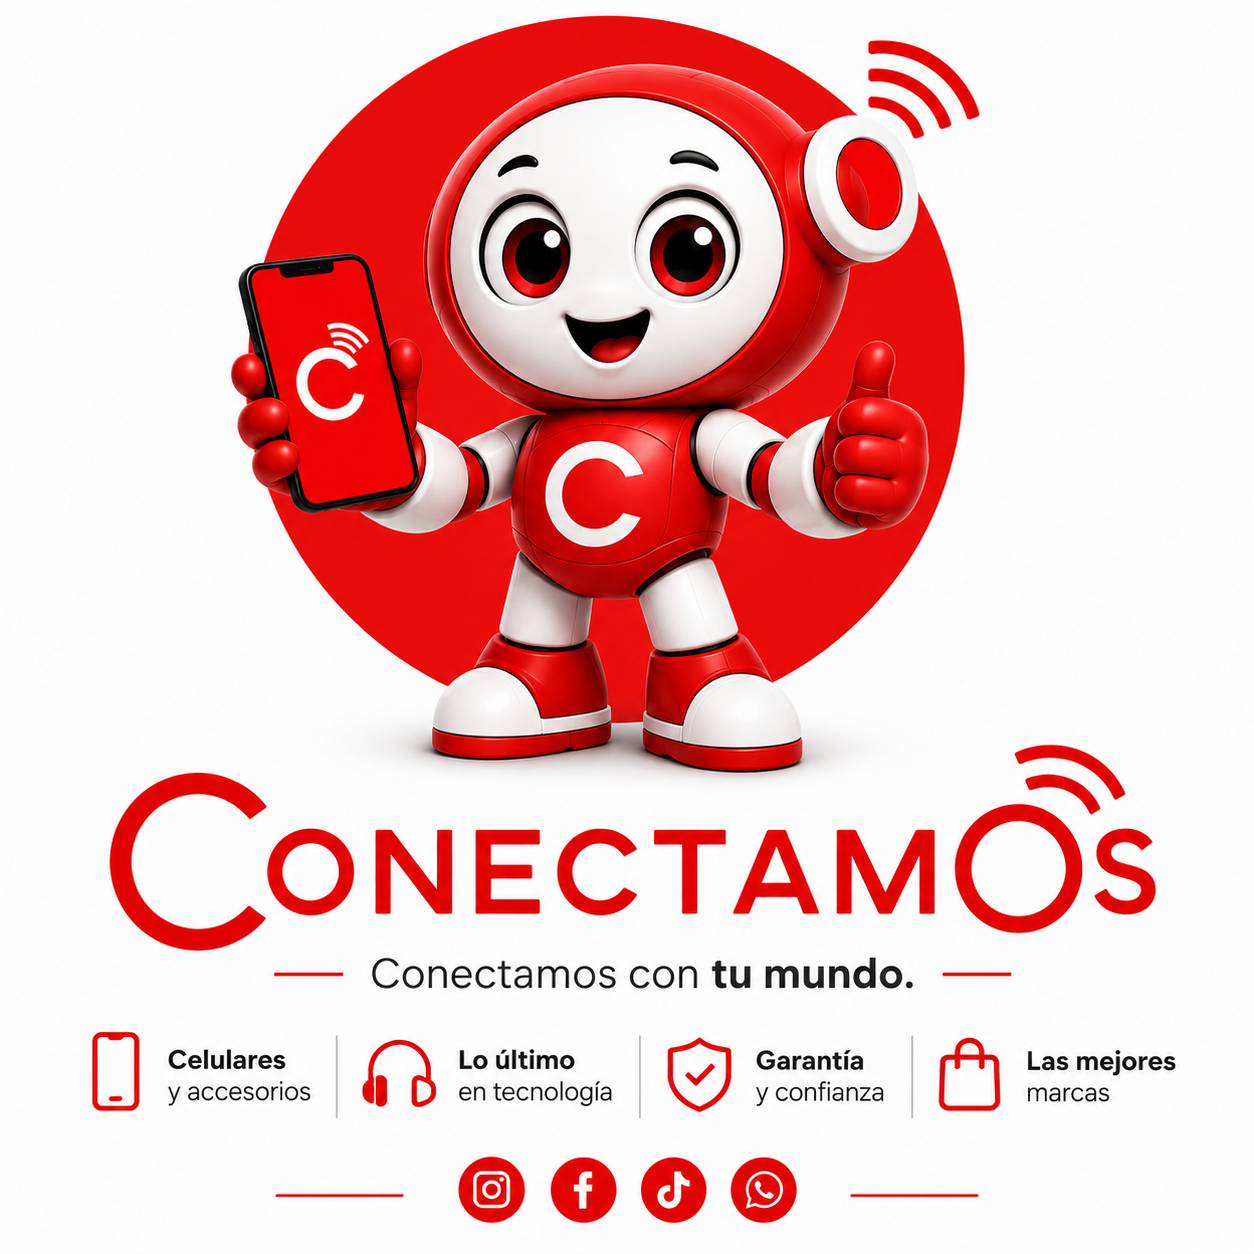
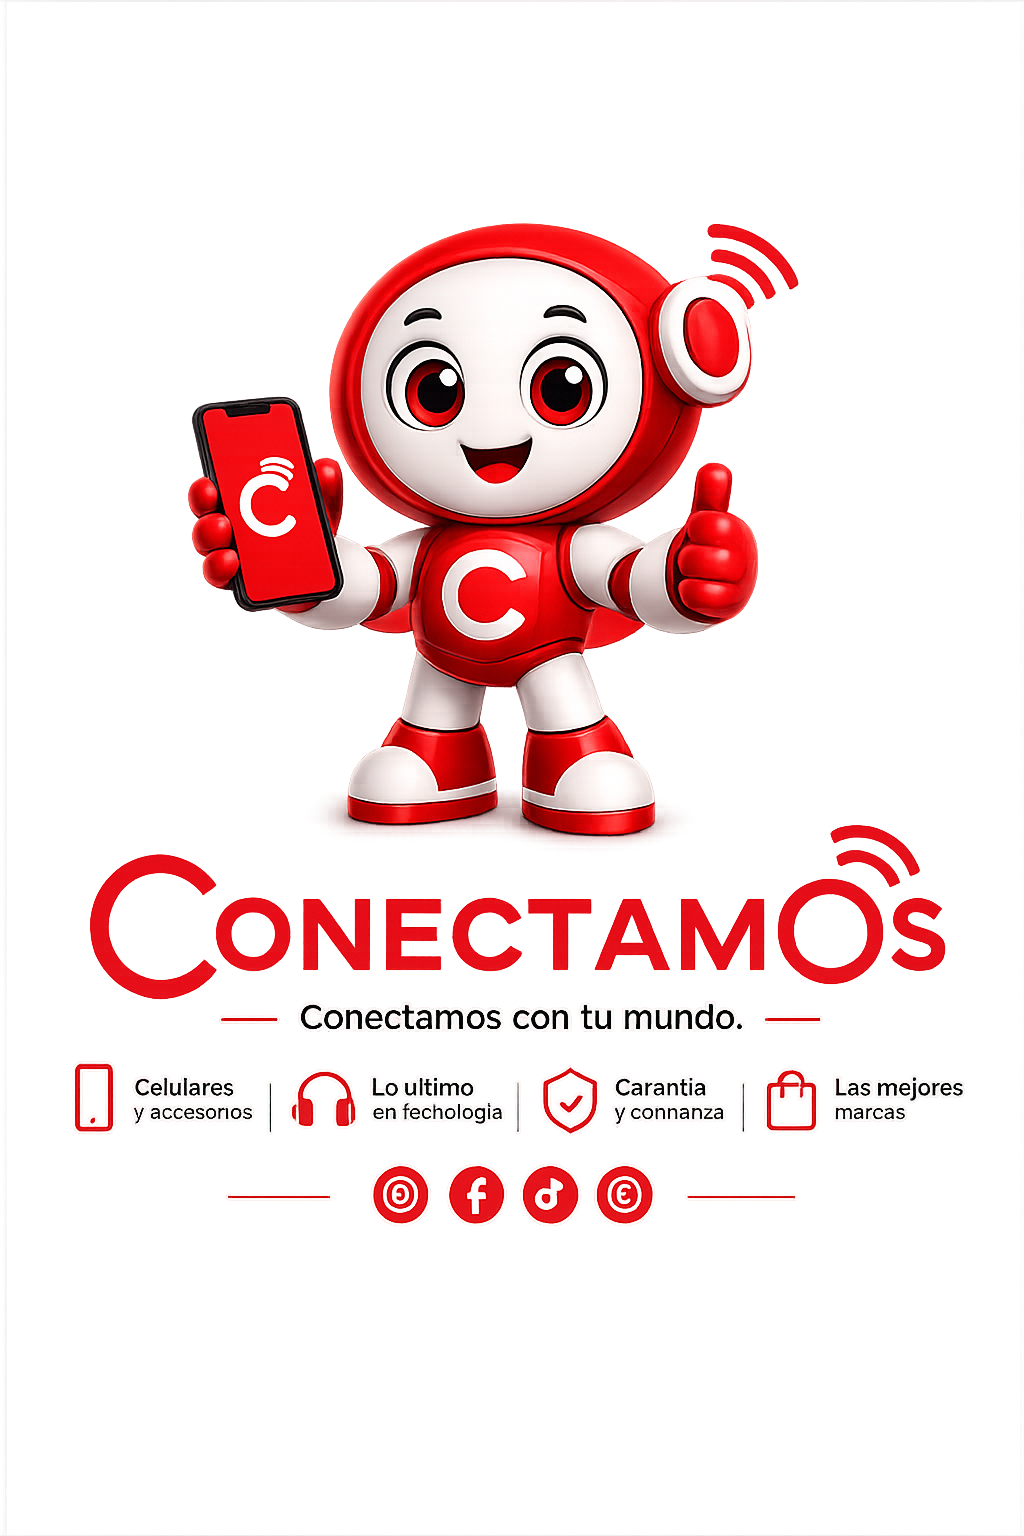
Use dark mascot artwork on login

diff --git a/app/page.tsx b/app/page.tsx
@@ -752,17 +752,15 @@ export default function Home() {
         >
           <div className="absolute inset-y-0 right-0 hidden w-px bg-white/15 lg:block" />
 
-          <div className="relative w-full max-w-[680px] rounded-[2.25rem] bg-white p-3 shadow-[0_34px_90px_rgba(0,0,0,0.28)] sm:p-5">
-            <div className="overflow-hidden rounded-[1.75rem] bg-white">
-              <Image
-                src="/branding/conectamos-mascota.png"
-                alt="CONECTAMOS"
-                width={1254}
-                height={1254}
-                priority
-                className="mx-auto h-auto max-h-[390px] w-full max-w-[360px] object-contain sm:max-h-[560px] sm:max-w-[620px] lg:max-h-[760px] lg:max-w-[680px]"
-              />
-            </div>
+          <div className="relative flex w-full max-w-[620px] justify-center">
+            <Image
+              src="/branding/conectamos-mascota.png"
+              alt="CONECTAMOS"
+              width={1024}
+              height={1536}
+              priority
+              className="h-auto max-h-[340px] w-auto max-w-full rounded-[1.75rem] object-contain shadow-[0_34px_90px_rgba(0,0,0,0.34)] sm:max-h-[680px] lg:max-h-[760px]"
+            />
           </div>
         </section>
 
